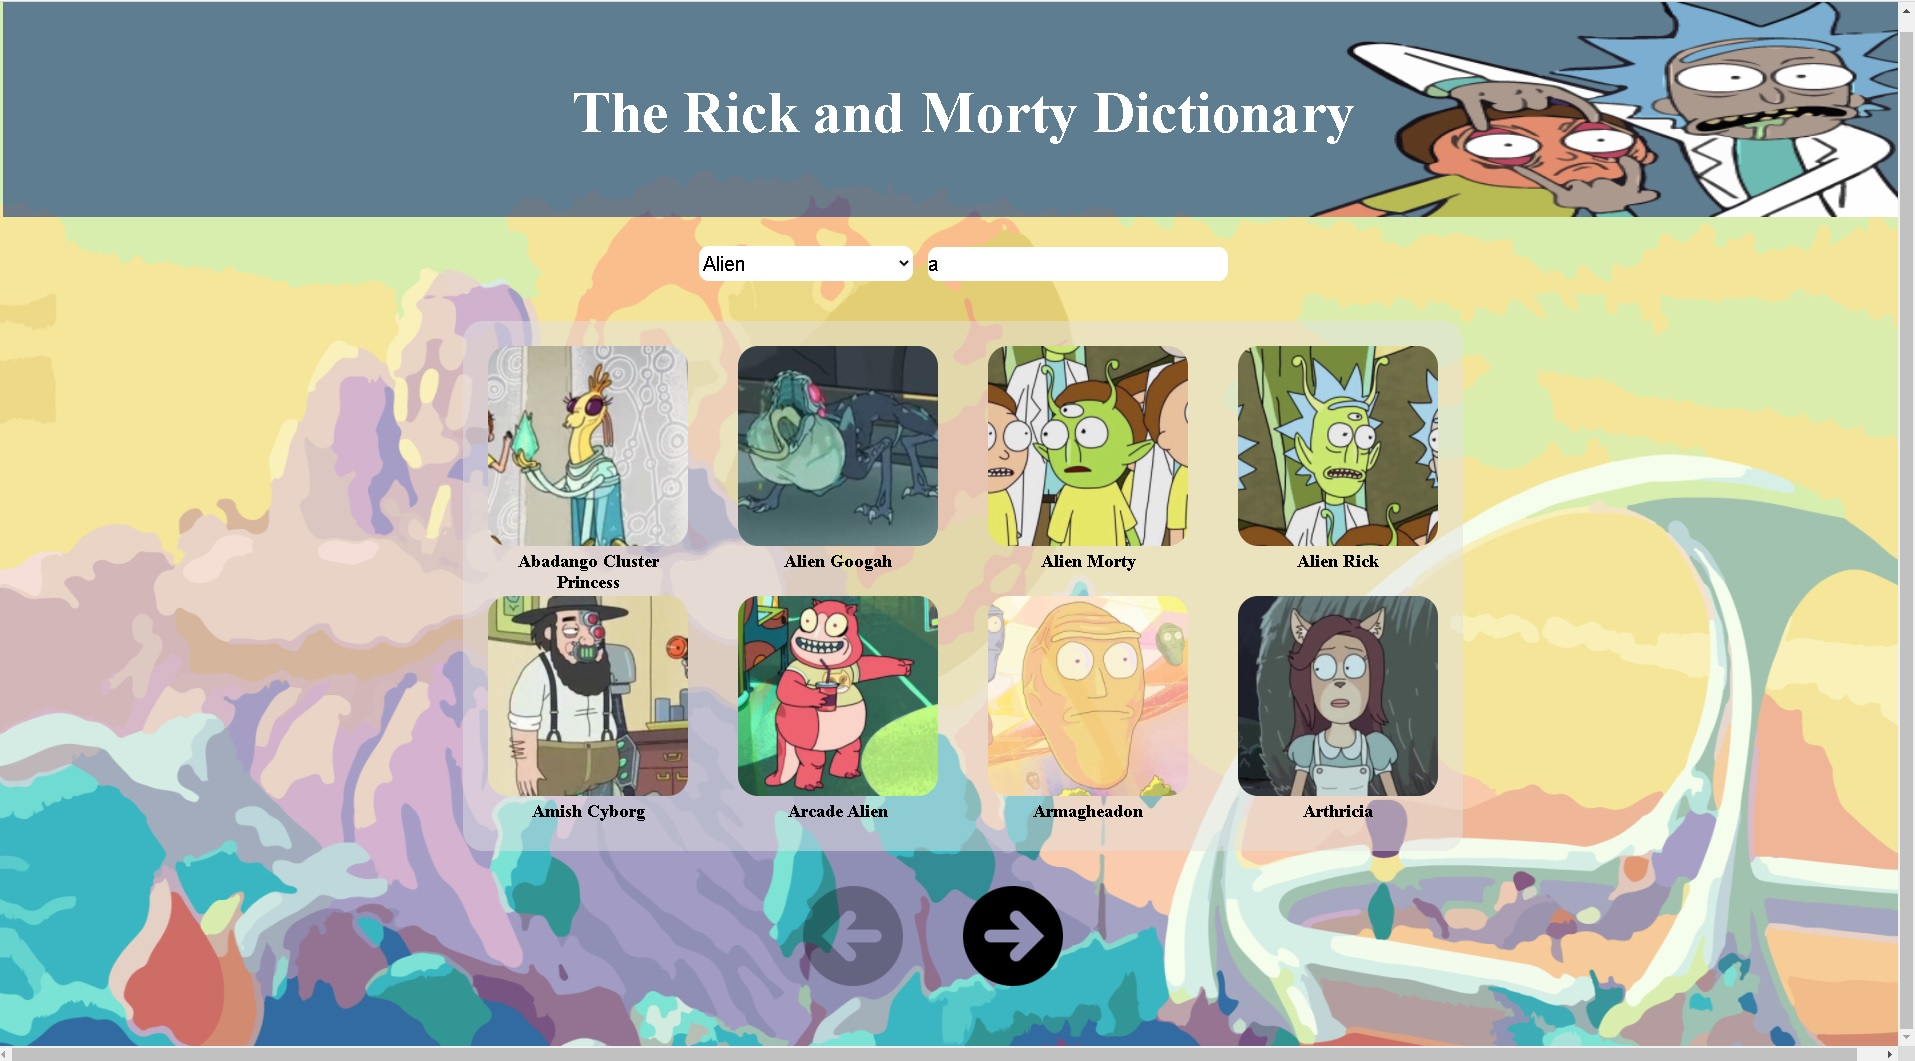
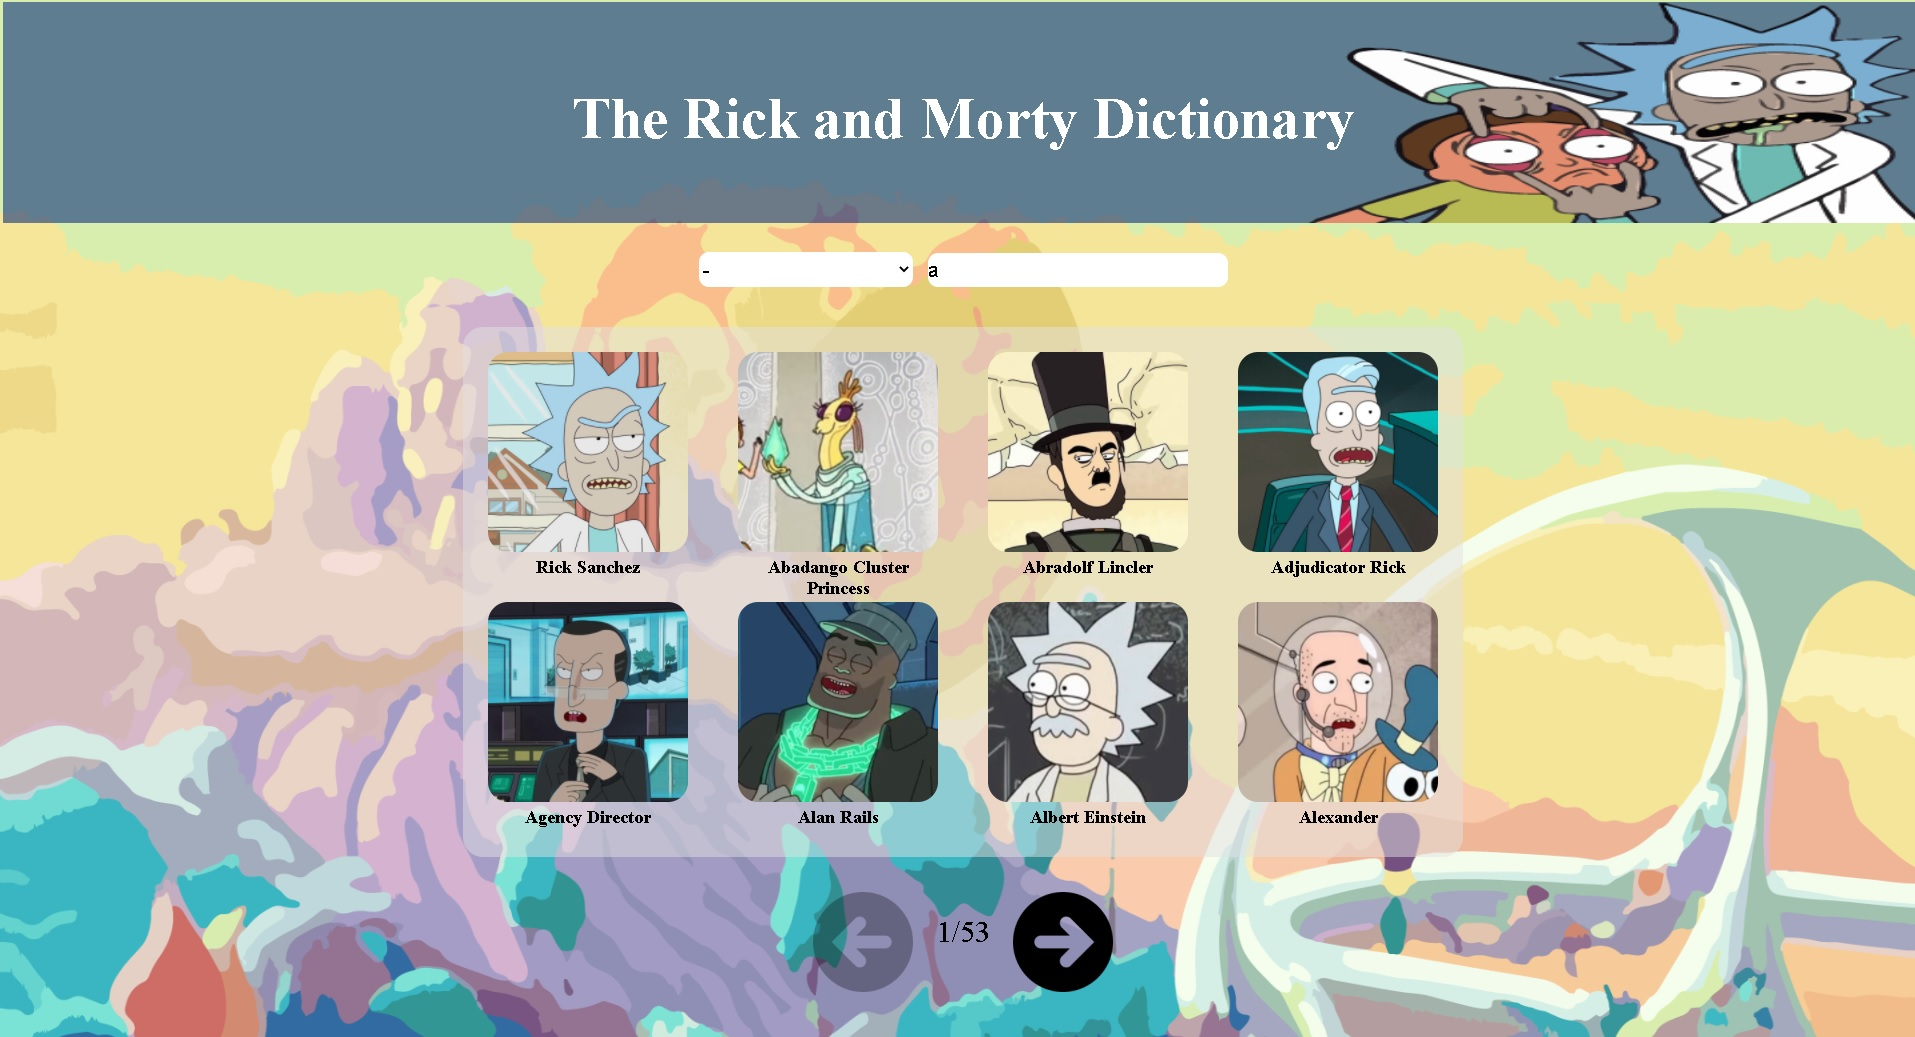
page counter and logic on back and next btns
add a page counter which will tell you what page you're browsing through in gallery. lets user know when they're reaching the end

improved logic on back and next btns when they're disabled, enabled, keep their position if gallery doesn't have more than 4 characters displayed. properly remove and add them in compared to before. Before they just hid behind the displayed character's image on the second page.

on preview2 you can see a list. that displays all the characters that were part of the search criteria. In the future update that will be used to jump to another character in the list without searching again, and also displaying a list in which episode the character made their appearance.

diff --git a/index.js b/index.js
@@ -11,6 +11,7 @@ let counterNextIndex = 8;
 let searchInput;
 const mainWindow = document.querySelector(".main-window")
 const secondWindow = document.querySelector(".second-window")
+const episodeList = document.querySelector("#episode-list")
 const topGallery = document.querySelector("#top-gallery")
 const bottomGallery = document.querySelector("#bottom-gallery")
 const searchForm =document.createElement("form")
@@ -29,6 +30,7 @@ const userInputDiv = document.querySelector("#user-input")
 const nextBtn = document.createElement("button")
 const characterContainer = document.querySelector("#character-container")
 const browseDiv = document.querySelector("#browseNextGallery")
+const pagesCountDiv = document.createElement("DIV")
 const backBtn = document.createElement("BUTTON")
 init();
 
@@ -99,11 +101,13 @@ function nextBtnSearch(){
   counterNextIndex = 8
   backBtn.id = "back-btn"
   nextBtn.id = "next-btn"
+  pagesCountDiv.id = "page-count"
   backBtn.disabled = true
   backBtn.style.opacity = 0;
   nextBtn.disabled = true;
   nextBtn.style.opacity = 0;
   browseDiv.insertBefore(backBtn, browseDiv.children[0])
+  browseDiv.insertBefore(pagesCountDiv, browseDiv.children[1])
   browseDiv.append(nextBtn)
 
   nextBtn.addEventListener("click", () => {
@@ -118,8 +122,12 @@ function nextBtnSearch(){
       backBtn.disabled = false
       backBtn.style.opacity = 1;
     }
+    pagesCountDiv.textContent = `${Math.ceil(counterNextIndex/8)}/${Math.ceil(searchInput.length/8)}`
     imageGalleryArray = searchInput.slice(counterNextIndex-8,counterNextIndex)
     createGalleryImg()
+    if(bottomGallery.childElementCount === 0){
+      browseNextGallery.style.marginTop = "250px"
+    }
   })
 
   backBtn.addEventListener("click", ()=> {
@@ -134,8 +142,10 @@ function nextBtnSearch(){
       nextBtn.disabled = false;
       nextBtn.style.opacity = 1;
     }
+    pagesCountDiv.textContent = `${Math.ceil(counterNextIndex/8)}/${Math.ceil(searchInput.length/8)}`
     imageGalleryArray = searchInput.slice(counterNextIndex-8,counterNextIndex)
     createGalleryImg()
+    browseNextGallery.style.marginTop = "0px"
   })
 }
 
@@ -194,6 +204,12 @@ function createSearchForm(){
 }
 
 function keyupSearch(searchInputText, categoryC, nameC){
+  if(browseDiv.childElementCount < 3){
+    browseDiv.style.marginTop = "0px";
+    browseDiv.insertBefore(backBtn, browseDiv.children[0])
+    browseDiv.insertBefore(pagesCountDiv, browseDiv.children[1])
+    browseDiv.append(nextBtn)
+  }
   searchInput = characterResults.filter((element) => {
     if(searchInputText === "-"){
       //search name in ALL categories
@@ -209,14 +225,22 @@ function keyupSearch(searchInputText, categoryC, nameC){
     }
   })
   counterNextIndex = 8
-  nextBtn.disabled = false
-  backBtn.disabled = true
-  nextBtn.style.opacity = 1
-  backBtn.style.opacity = 0.3
+  pagesCountDiv.textContent = `${Math.ceil(counterNextIndex/8)}/${Math.ceil(searchInput.length/8)}`
   imageGalleryArray = searchInput.slice(0,8)
   if(topGallery.childElementCount > 0){
     topGallery.textContent = ""
     bottomGallery.textContent = ""
+  }
+  if(searchInput.length <= 4){
+    backBtn.disabled = true
+    nextBtn.disabled = true
+    backBtn.style.opacity = 0.3;
+    nextBtn.style.opacity = 0.3;
+  }else{
+    nextBtn.disabled = false
+    backBtn.disabled = true
+    nextBtn.style.opacity = 1
+    backBtn.style.opacity = 0.3
   }
   createGalleryImg()
 }
@@ -224,6 +248,25 @@ function keyupSearch(searchInputText, categoryC, nameC){
 function resetSearchBar(){
   searchForm.reset()
 }
+
+//\\////\\////\\////\\////\\////\\////\\////\\////\\////\\////\\////\\////\\////\\////\\////\\////\\////\\
+//\\////\\////\\////\\////                  Display Episode List                ////\\////\\////\\////\\//
+//\\////\\////\\////\\////\\////\\////\\////\\////\\////\\////\\////\\////\\////\\////\\////\\////\\////\\
+
+function displayEpisodeList(){
+  if(episodeList.childElementCount > 0){
+    episodeList.textContent = ""}
+  searchInput.forEach(element => {
+    singleNameDiv = document.createElement("DIV")
+    singleNameDiv.textContent = element.name
+    episodeList.append(singleNameDiv)
+    singleNameDiv.addEventListener("click", ()=> {
+      clearGallery()
+      displaySelectCharacter(element)})
+  })
+}
+
+
 
 //\\////\\////\\////\\////\\////\\////\\////\\////\\////\\////\\////\\////\\////\\////\\////\\////\\////\\
 //\\////\\////\\////\\////                Display Selected Character            ////\\////\\////\\////\\//
@@ -251,8 +294,10 @@ function displaySelectCharacter(image){
     divTagInfo.append(spanTagInfo)
     characterInfo.append(divTagInfo)
   })
+  browseDiv.textContent = ""
   saveChanges(image)
   likeDislike(image)
+  displayEpisodeList()
 }
 
 function clearGallery(){

diff --git a/app.css b/app.css
@@ -114,6 +114,31 @@ body{
     border-radius: 10px;
 }
 
+#episode-list{
+    display: flex;
+    flex-direction: column;
+    position: absolute;
+    left: 0;
+    overflow-y: scroll;
+    max-height: 70vh;
+}
+
+#episode-list div{
+    padding: 5px;
+    font-family: Rockwell;
+    font-size: 18px;
+    z-index: 3;
+    background-color: rgba(226, 226, 226, 0.3);
+}
+
+#episode-list::-webkit-scrollbar{
+    width: 20px;
+    height: 0px;
+  }
+  
+#episode-list::-webkit-scrollbar-thumb {
+    background: rgba(0, 35, 122, 0.56);
+  }
 
 #character-container{
     position: relative;
@@ -165,8 +190,6 @@ body{
     margin:0;
 }
 
-
-
 #top-gallery{
     display: flex;
     align-content: center;
@@ -201,18 +224,30 @@ body{
 
 #next-btn{
     background-image: url("assets/668278_arrows_512x512.png");
-    height:160px;
-    width:160px;
+    height:100px;
+    width:100px;
     background-repeat:no-repeat;
     background-color: transparent;
     border: none;
     margin-top: 20px;
 }
 
+#page-count{
+    height: fit-content;
+    width: 100px;
+    background-color: transparent;
+    border: none;
+    display: flex;
+    align-items: center;
+    justify-content: center;
+    font-size: 30px;
+}
+
+
 #back-btn{
     background-image: url("assets/backArrow.png");
-    height:160px;
-    width:160px;
+    height:100px;
+    width:100px;
     background-repeat:no-repeat;
     background-color: transparent;
     border: none;

diff --git a/index.html b/index.html
@@ -13,6 +13,7 @@
         </div>
         <div class="main-window">
             <div id="character-search"></div>
+            <div id="episode-list"></div>
             <div id="character-container">
                 <div id="top-gallery"></div>
                 <div id="bottom-gallery"></div>
